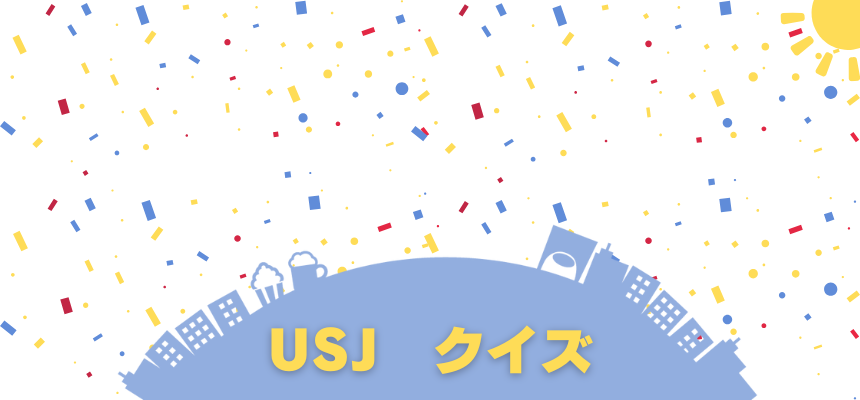
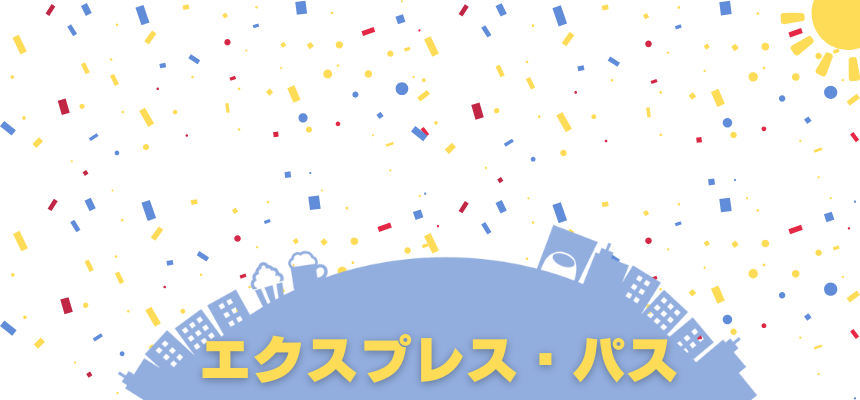
身長注意書き・プランニングCTA・EP表記変更・ヘッダー画像差替・完売注意書き追加
- Q2身長選択に「靴を履いた状態で計測」の注意書き追加
- 結果画面にたまごのプランニングCTA追加（プロフィール画像+テキスト+2ボタン）
- 全「EP」表記を「エクスプレス・パス」に変更
- ヘッダー画像を新デザインに差替
- トップ・結果画面に完売注意書き追加
- 公式サイトURLをstore.usj.co.jpに変更

Changed region(s): [[0.2116, 0.81, 0.786, 0.96]]

diff --git a/data.js b/data.js
@@ -59,11 +59,11 @@ var PASSES = [
       "2026-04-14": 48000, "2026-04-15": 48000
     }
   },
-  // 2. EP7 トロッコ＆セレクション
+  // 2. エクスプレス・パス 7 トロッコ＆セレクション
   {
     id: "ep7_trolley_selection",
     name: "エクスプレス・パス 7\n〜トロッコ＆セレクション〜",
-    shortName: "EP7 トロッコ＆セレクション",
+    shortName: "エクスプレス・パス 7 トロッコ＆セレクション",
     type: "ep7",
     color: "#4A90D9",
     colorBg: "#EBF3FB",
@@ -99,11 +99,11 @@ var PASSES = [
       "2026-04-14": 23800, "2026-04-15": 23800
     }
   },
-  // 3. EP4 ミニオン＆ハリウッド・ドリーム
+  // 3. エクスプレス・パス 4 ミニオン＆ハリウッド・ドリーム
   {
     id: "ep4_minion_hollywood",
     name: "エクスプレス・パス 4\n〜ミニオン＆ハリウッド・ドリーム・ザ・ライド〜",
-    shortName: "EP4 ミニオン＆ハリウッド・ドリーム",
+    shortName: "エクスプレス・パス 4 ミニオン＆ハリウッド・ドリーム",
     type: "ep4",
     color: "#27AE60",
     colorBg: "#E8F8EF",
@@ -140,11 +140,11 @@ var PASSES = [
       "2026-04-14": 16800, "2026-04-15": 16800
     }
   },
-  // 4. EP4 レース＆トロッコ
+  // 4. エクスプレス・パス 4 レース＆トロッコ
   {
     id: "ep4_race_trolley",
     name: "エクスプレス・パス 4\n〜レース＆トロッコ〜",
-    shortName: "EP4 レース＆トロッコ",
+    shortName: "エクスプレス・パス 4 レース＆トロッコ",
     type: "ep4",
     color: "#27AE60",
     colorBg: "#E8F8EF",
@@ -175,11 +175,11 @@ var PASSES = [
       "2026-03-27": 26800, "2026-03-28": 22800, "2026-03-31": 18800
     }
   },
-  // 5. EP4 トロッコ＆ジョーズ
+  // 5. エクスプレス・パス 4 トロッコ＆ジョーズ
   {
     id: "ep4_trolley_jaws",
     name: "エクスプレス・パス 4\n〜トロッコ＆ジョーズ〜",
-    shortName: "EP4 トロッコ＆ジョーズ",
+    shortName: "エクスプレス・パス 4 トロッコ＆ジョーズ",
     type: "ep4",
     color: "#27AE60",
     colorBg: "#E8F8EF",
@@ -210,11 +210,11 @@ var PASSES = [
       "2026-04-13": 16800, "2026-04-15": 16800
     }
   },
-  // 6. EP4 レース＆ジョーズ
+  // 6. エクスプレス・パス 4 レース＆ジョーズ
   {
     id: "ep4_race_jaws",
     name: "エクスプレス・パス 4\n〜レース＆ジョーズ〜",
-    shortName: "EP4 レース＆ジョーズ",
+    shortName: "エクスプレス・パス 4 レース＆ジョーズ",
     type: "ep4",
     color: "#27AE60",
     colorBg: "#E8F8EF",
@@ -252,11 +252,11 @@ var PASSES = [
       "2026-04-15": 16800
     }
   },
-  // 7. EP4 4-D＆バックドロップ
+  // 7. エクスプレス・パス 4 4-D＆バックドロップ
   {
     id: "ep4_4d_backdrop",
     name: "エクスプレス・パス 4\n〜4-D＆バックドロップ〜",
-    shortName: "EP4 4-D＆バックドロップ",
+    shortName: "エクスプレス・パス 4 4-D＆バックドロップ",
     type: "ep4",
     color: "#27AE60",
     colorBg: "#E8F8EF",
@@ -288,11 +288,11 @@ var PASSES = [
       "2026-04-15": 11800
     }
   },
-  // 8. EP4 ミニオン＆アドベンチャー
+  // 8. エクスプレス・パス 4 ミニオン＆アドベンチャー
   {
     id: "ep4_minion_adventure",
     name: "エクスプレス・パス 4\n〜ミニオン＆アドベンチャー〜",
-    shortName: "EP4 ミニオン＆アドベンチャー",
+    shortName: "エクスプレス・パス 4 ミニオン＆アドベンチャー",
     type: "ep4",
     color: "#27AE60",
     colorBg: "#E8F8EF",
@@ -326,11 +326,11 @@ var PASSES = [
       "2026-03-29": 14800, "2026-03-30": 14800, "2026-03-31": 14800
     }
   },
-  // 9. EP4 スペファン＆ミニオンHM
+  // 9. エクスプレス・パス 4 スペファン＆ミニオンHM
   {
     id: "ep4_space_minion_mission",
     name: "エクスプレス・パス 4\n〜スペース・ファンタジー＆ミニオン・ハチャメチャ・ミッション〜",
-    shortName: "EP4 スペファン＆ミニオンHM",
+    shortName: "エクスプレス・パス 4 スペファン＆ミニオンHM",
     type: "ep4",
     color: "#27AE60",
     colorBg: "#E8F8EF",
@@ -370,11 +370,11 @@ var PASSES = [
       "2026-04-14": 11800, "2026-04-15": 11800
     }
   },
-  // 10. EP4 スペファン＆ミニオン
+  // 10. エクスプレス・パス 4 スペファン＆ミニオン
   {
     id: "ep4_space_minion",
     name: "エクスプレス・パス 4\n〜スペース・ファンタジー＆ミニオン〜",
-    shortName: "EP4 スペファン＆ミニオン",
+    shortName: "エクスプレス・パス 4 スペファン＆ミニオン",
     type: "ep4",
     color: "#27AE60",
     colorBg: "#E8F8EF",
@@ -413,11 +413,11 @@ var PASSES = [
       "2026-04-14": 11800, "2026-04-15": 11800
     }
   },
-  // 11. EP4 フラダイ＆ジュラパ
+  // 11. エクスプレス・パス 4 フラダイ＆ジュラパ
   {
     id: "ep4_dino_jurassic",
     name: "エクスプレス・パス 4\n〜フライング・ダイナソー＆ジュラシック・パーク〜",
-    shortName: "EP4 フラダイ＆ジュラパ",
+    shortName: "エクスプレス・パス 4 フラダイ＆ジュラパ",
     type: "ep4",
     color: "#27AE60",
     colorBg: "#E8F8EF",
@@ -456,11 +456,11 @@ var PASSES = [
       "2026-04-14": 11800, "2026-04-15": 11800
     }
   },
-  // 12. EP4 アドベンチャー＆レース
+  // 12. エクスプレス・パス 4 アドベンチャー＆レース
   {
     id: "ep4_adventure_race",
     name: "エクスプレス・パス 4\n〜アドベンチャー＆レース〜",
-    shortName: "EP4 アドベンチャー＆レース",
+    shortName: "エクスプレス・パス 4 アドベンチャー＆レース",
     type: "ep4",
     color: "#27AE60",
     colorBg: "#E8F8EF",
@@ -493,11 +493,11 @@ var PASSES = [
       "2026-03-27": 26800, "2026-03-28": 20800, "2026-03-31": 16800
     }
   },
-  // 13. EP4 トロッコ＆ジュラシック・パーク
+  // 13. エクスプレス・パス 4 トロッコ＆ジュラシック・パーク
   {
     id: "ep4_trolley_jurassic",
     name: "エクスプレス・パス 4\n〜トロッコ＆ジュラシック・パーク〜",
-    shortName: "EP4 トロッコ＆ジュラパ",
+    shortName: "エクスプレス・パス 4 トロッコ＆ジュラパ",
     type: "ep4",
     color: "#27AE60",
     colorBg: "#E8F8EF",
@@ -535,11 +535,11 @@ var PASSES = [
       "2026-04-15": 16800
     }
   },
-  // 14. EP4 ミニオン＆シアター（4月限定）
+  // 14. エクスプレス・パス 4 ミニオン＆シアター（4月限定）
   {
     id: "ep4_minion_theater",
     name: "エクスプレス・パス 4\n〜ミニオン＆シアター〜",
-    shortName: "EP4 ミニオン＆シアター",
+    shortName: "エクスプレス・パス 4 ミニオン＆シアター",
     type: "ep4",
     color: "#27AE60",
     colorBg: "#E8F8EF",
@@ -567,11 +567,11 @@ var PASSES = [
       "2026-04-14": 12800, "2026-04-15": 12800
     }
   },
-  // 15. EP4 レース＆シアター（4月限定）
+  // 15. エクスプレス・パス 4 レース＆シアター（4月限定）
   {
     id: "ep4_race_theater",
     name: "エクスプレス・パス 4\n〜レース＆シアター〜",
-    shortName: "EP4 レース＆シアター",
+    shortName: "エクスプレス・パス 4 レース＆シアター",
     type: "ep4",
     color: "#27AE60",
     colorBg: "#E8F8EF",
@@ -598,11 +598,11 @@ var PASSES = [
       "2026-04-13": 14800, "2026-04-14": 14800, "2026-04-15": 14800
     }
   },
-  // 16. EP4 バックドロップ＆レース（4月限定）
+  // 16. エクスプレス・パス 4 バックドロップ＆レース（4月限定）
   {
     id: "ep4_backdrop_race",
     name: "エクスプレス・パス 4\n〜バックドロップ＆レース〜",
-    shortName: "EP4 バックドロップ＆レース",
+    shortName: "エクスプレス・パス 4 バックドロップ＆レース",
     type: "ep4",
     color: "#27AE60",
     colorBg: "#E8F8EF",

diff --git a/index.html b/index.html
@@ -21,6 +21,7 @@
         <h1 class="top-title">あなたにピッタリの<br>エクスプレスパスは？</h1>
         <p class="top-description">4つの質問であなた専用のパスを診断<br>その日の価格もわかります</p>
         <button id="start-btn" class="btn btn-primary btn-large">診断スタート</button>
+        <p class="disclaimer">※日付によっては完売している場合があります</p>
       </div>
       <img src="images/footer.png" alt="たまご" class="footer-image">
     </div>
@@ -61,6 +62,7 @@
       </div>
       <div class="quiz-body">
         <p class="question-text">一番小さいお子さまの身長は？</p>
+        <p class="question-note">※USJでは靴を履いた状態で計測されます</p>
         <div id="height-choices" class="choices-container"></div>
       </div>
     </div>
@@ -117,13 +119,30 @@
         <!-- 他の候補 -->
         <div id="other-results"></div>
 
+        <!-- たまごのプランニング -->
+        <div id="planning-cta" class="planning-cta">
+          <img src="images/tamago-profile.jpg" alt="たまご｜ユニバプランの先生" class="planning-cta-profile">
+          <p class="planning-cta-title">あなた専用のUSJプラン</p>
+          <p class="planning-cta-price">7,000〜15,000円</p>
+          <div class="planning-cta-body">
+            <p class="planning-cta-point">エクスプレス・パス代</p>
+            <p class="planning-cta-point">家族4人分で<strong>10万超</strong></p>
+            <p class="planning-cta-point">実績<strong>100件超</strong>の安心サポート</p>
+            <p class="planning-cta-dm">「プランニングについて」とDMしてね</p>
+          </div>
+          <div class="planning-cta-links">
+            <a href="https://www.instagram.com/p/DF2UkeSyGdg/?img_index=1" target="_blank" rel="noopener" class="btn btn-planning">プランニングの詳細</a>
+            <a href="https://www.instagram.com/tamago_usj_guide/" target="_blank" rel="noopener" class="btn btn-planning-sub">Instagramへ</a>
+          </div>
+        </div>
+
         <!-- アクション -->
         <div class="result-actions">
           <button id="retry-btn" class="btn btn-primary btn-large">もう一度やる</button>
-          <a href="https://www.usj.co.jp/web/ja/jp/tickets/express-pass" target="_blank" rel="noopener" class="btn btn-secondary btn-large">公式サイトで詳細を見る</a>
+          <a href="https://store.usj.co.jp/ja/jp/c/ticket" target="_blank" rel="noopener" class="btn btn-secondary btn-large">公式サイトで詳細を見る</a>
         </div>
 
-        <p class="disclaimer">※価格・内容は変更になる場合があります。最新情報は公式サイトでご確認ください。<br>※本サービスはUSJ公式ではありません。</p>
+        <p class="disclaimer">※日付によっては完売している場合があります。<br>※価格・内容は変更になる場合があります。最新情報は公式サイトでご確認ください。<br>※本サービスはUSJ公式ではありません。</p>
       </div>
       <img src="images/footer.png" alt="たまご" class="footer-image">
     </div>

diff --git a/style.css b/style.css
@@ -608,6 +608,106 @@ body {
   line-height: 1.6;
 }
 
+/* === たまごのプランニングCTA === */
+.planning-cta {
+  margin-top: 24px;
+  padding: 16px;
+  background: linear-gradient(135deg, #FFF8E1, #FFF3E0);
+  border: 2px solid #FFD54F;
+  border-radius: 14px;
+  text-align: left;
+  animation: fadeSlideIn 0.6s ease;
+}
+
+.planning-cta.highlight {
+  border-width: 3px;
+  box-shadow: 0 4px 16px rgba(255, 193, 7, 0.25);
+}
+
+.planning-cta-profile {
+  width: 100%;
+  border-radius: 8px;
+  display: block;
+  margin-bottom: 14px;
+}
+
+.planning-cta-title {
+  font-size: 17px;
+  font-weight: 800;
+  color: #333;
+  text-align: center;
+  margin-bottom: 2px;
+}
+
+.planning-cta-price {
+  font-size: 22px;
+  font-weight: 800;
+  color: #F5A623;
+  text-align: center;
+  margin-bottom: 14px;
+}
+
+.planning-cta-body {
+  margin-bottom: 14px;
+  text-align: center;
+}
+
+.planning-cta-point {
+  font-size: 13px;
+  color: #555;
+  line-height: 1.8;
+}
+
+.planning-cta-point strong {
+  color: #E08A00;
+  font-weight: 800;
+}
+
+.planning-cta-dm {
+  font-size: 13px;
+  color: #F5A623;
+  font-weight: 700;
+  margin-top: 6px;
+}
+
+.planning-cta-links {
+  display: flex;
+  gap: 8px;
+}
+
+.btn-planning {
+  flex: 1;
+  background: #F5A623;
+  color: #fff;
+  padding: 10px 8px;
+  font-size: 12px;
+  font-weight: 700;
+  border-radius: 8px;
+  text-align: center;
+}
+
+.btn-planning:hover {
+  background: #E09500;
+  transform: translateY(-1px);
+}
+
+.btn-planning-sub {
+  flex: 1;
+  background: #fff;
+  color: #F5A623;
+  border: 2px solid #F5A623;
+  padding: 10px 8px;
+  font-size: 12px;
+  font-weight: 700;
+  border-radius: 8px;
+  text-align: center;
+}
+
+.btn-planning-sub:hover {
+  background: #FFF8E1;
+  transform: translateY(-1px);
+}
+
 /* === アクション === */
 .result-actions {
   display: flex;

diff --git a/app.js b/app.js
@@ -271,6 +271,16 @@
       });
       otherContainer.innerHTML = othersHtml;
     }
+
+    // プランニングCTAのハイライト（節約選択時）
+    var planningCta = document.getElementById("planning-cta");
+    if (planningCta) {
+      if (selectedBudget === "save") {
+        planningCta.classList.add("highlight");
+      } else {
+        planningCta.classList.remove("highlight");
+      }
+    }
   }
 
   // === 結果カードHTML生成 ===
